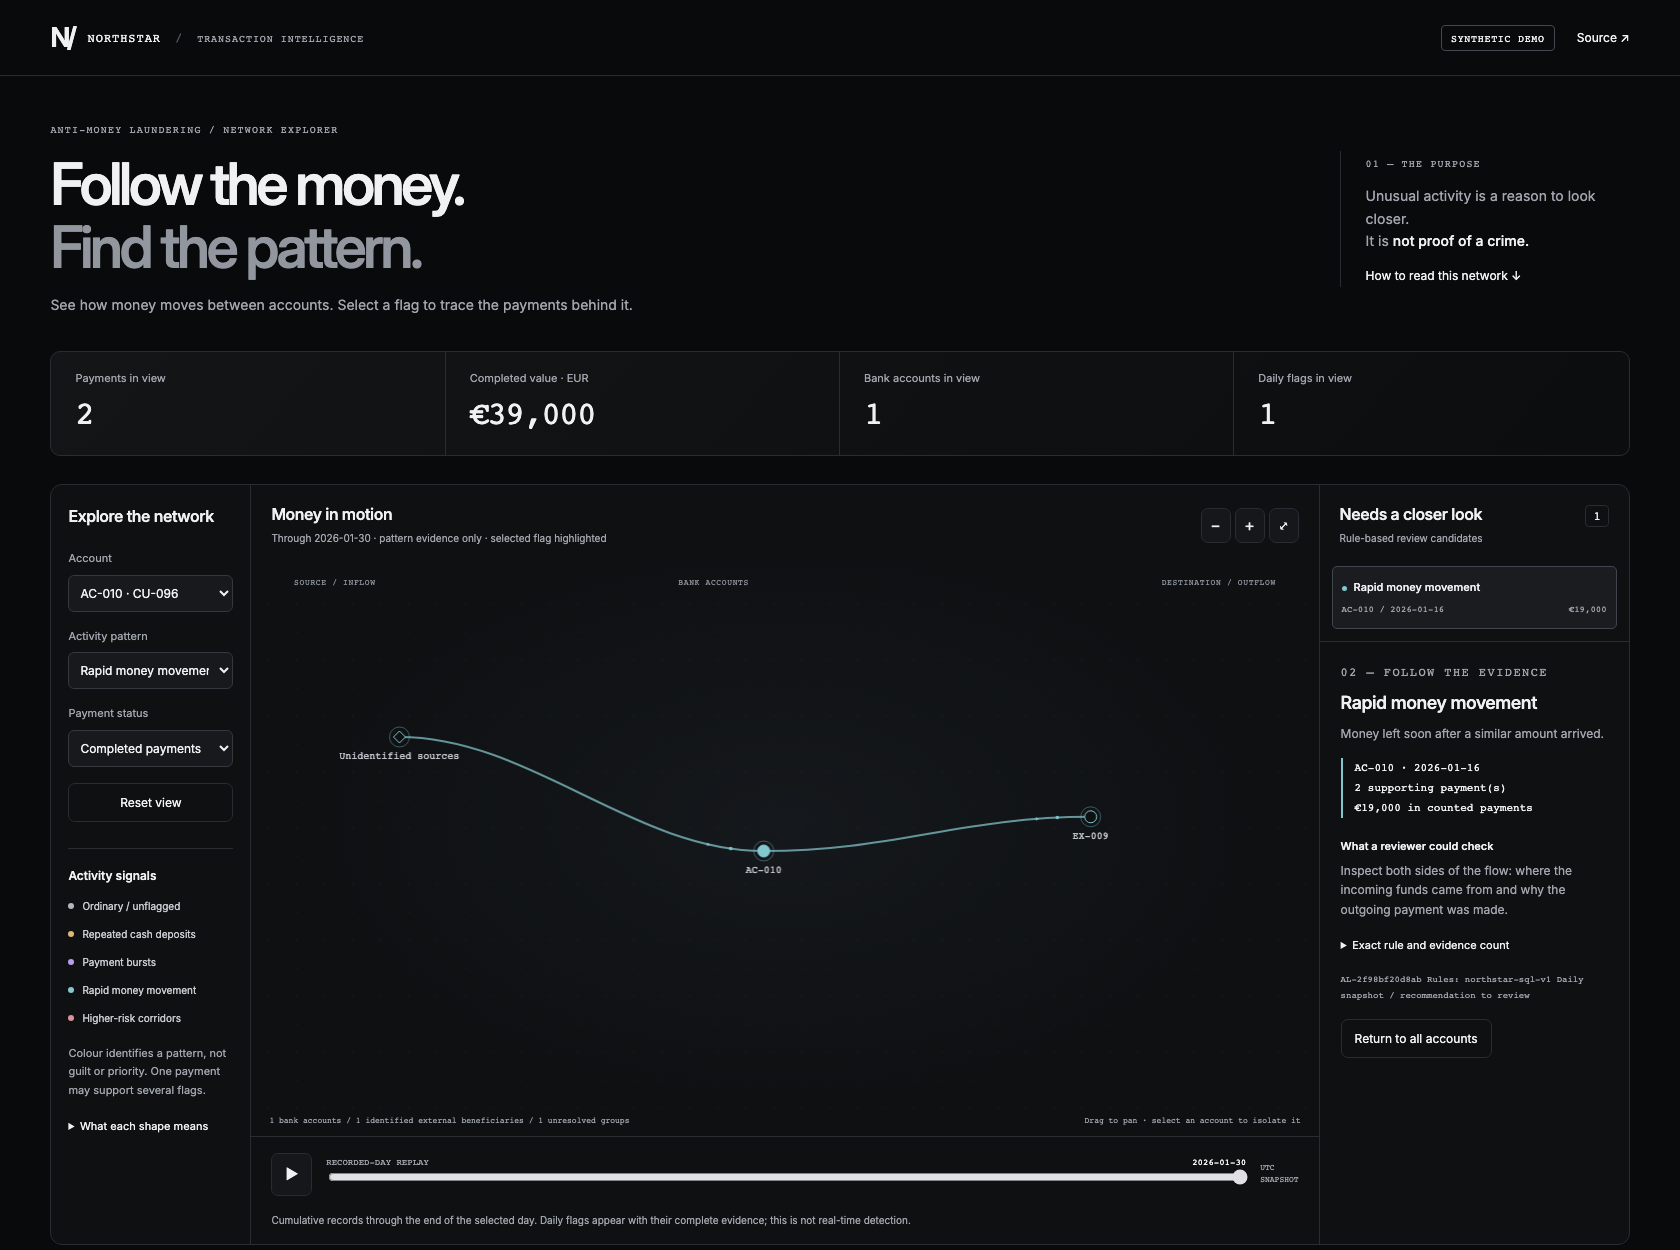
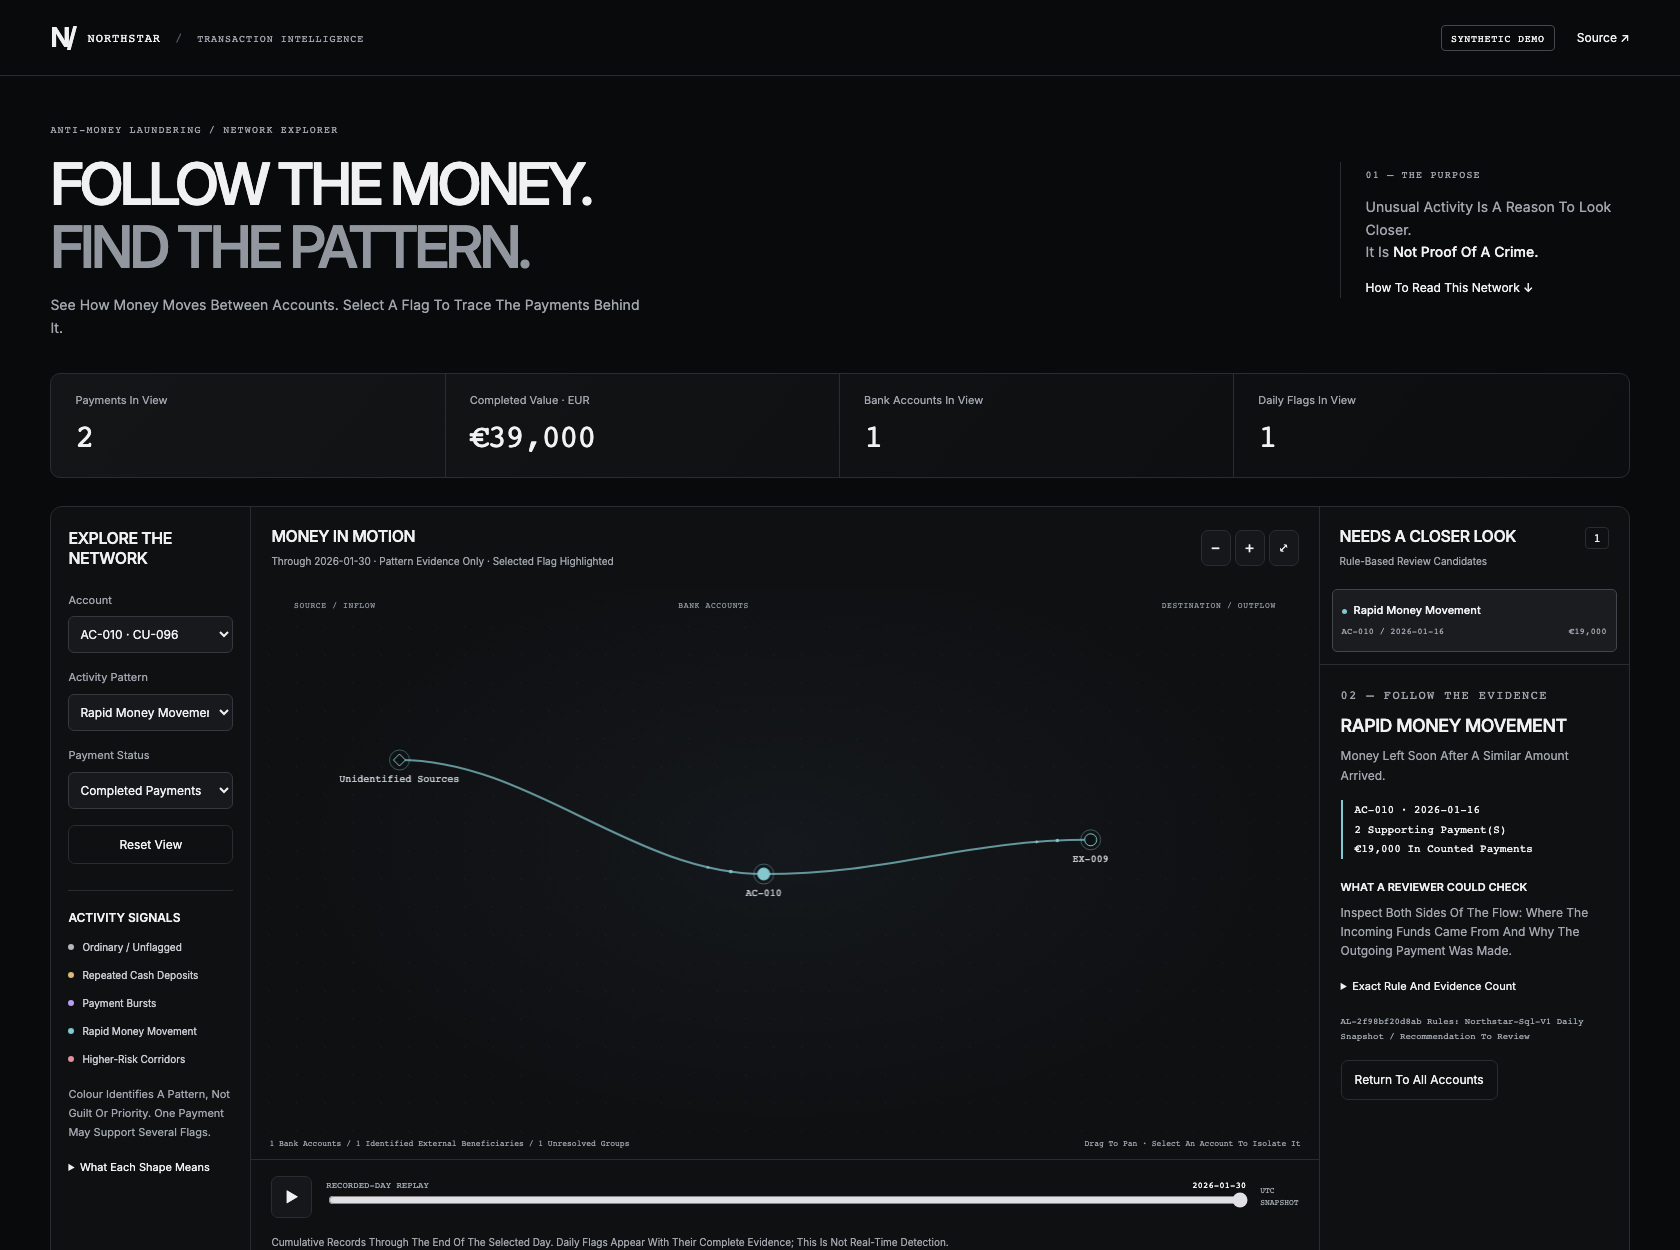
Apply title case copy and uppercase headings to AML network

diff --git a/aml-network/network.js b/aml-network/network.js
@@ -122,7 +122,7 @@ function draw(){
    if(n.signals.size){ctx.beginPath();ctx.arc(p.x,p.y,r+4,0,Math.PI*2);ctx.strokeStyle=color;ctx.globalAlpha=.4;ctx.lineWidth=1;ctx.stroke();ctx.globalAlpha=1;}
    ctx.beginPath();if(n.kind==='unknown'){ctx.moveTo(p.x,p.y-r);ctx.lineTo(p.x+r,p.y);ctx.lineTo(p.x,p.y+r);ctx.lineTo(p.x-r,p.y);ctx.closePath();}else ctx.arc(p.x,p.y,r,0,Math.PI*2);
    ctx.fillStyle=n.kind==='bank'?color:'#0e1012';ctx.strokeStyle=color;ctx.lineWidth=1;ctx.fill();ctx.stroke();
-   if($('account').value||zoom>2.2){ctx.font='10px monospace';ctx.fillStyle='#c3c7cf';ctx.textAlign='center';let label=n.kind==='unknown'?(n.id.startsWith('UN-IN')?'Unidentified sources':'Unidentified recipients'):n.id;ctx.fillText(label,p.x,Math.min(h-35,p.y+22));}
+   if($('account').value||zoom>2.2){ctx.font='10px monospace';ctx.fillStyle='#c3c7cf';ctx.textAlign='center';let label=n.kind==='unknown'?(n.id.startsWith('UN-IN')?'Unidentified Sources':'Unidentified Recipients'):n.id;ctx.fillText(label,p.x,Math.min(h-35,p.y+22));}
  }
 }
 function resize(){const rect=canvas.getBoundingClientRect();w=rect.width;h=rect.height;const dpr=Math.min(devicePixelRatio||1,2);canvas.width=w*dpr;canvas.height=h*dpr;ctx.setTransform(dpr,0,0,dpr,0,0);draw();}

diff --git a/aml-network/network.css b/aml-network/network.css
@@ -8,3 +8,7 @@
 
 .transaction-link{border:0;background:transparent;padding:0;text-decoration:underline;text-underline-offset:3px;font:inherit}.transaction-link:hover{background:transparent;color:#fff}
 .alert-card[aria-pressed=true]{color:var(--text)}
+
+/* Interface copy uses Title Case; headings and structural labels use capitals. */
+body,button,select,option,input{ text-transform:capitalize }
+h1,h2,h3,h4,th,.eyebrow,.small-index,.canvas-label,.timeline label,.brand,.tag,.recorded,footer{ text-transform:uppercase }
